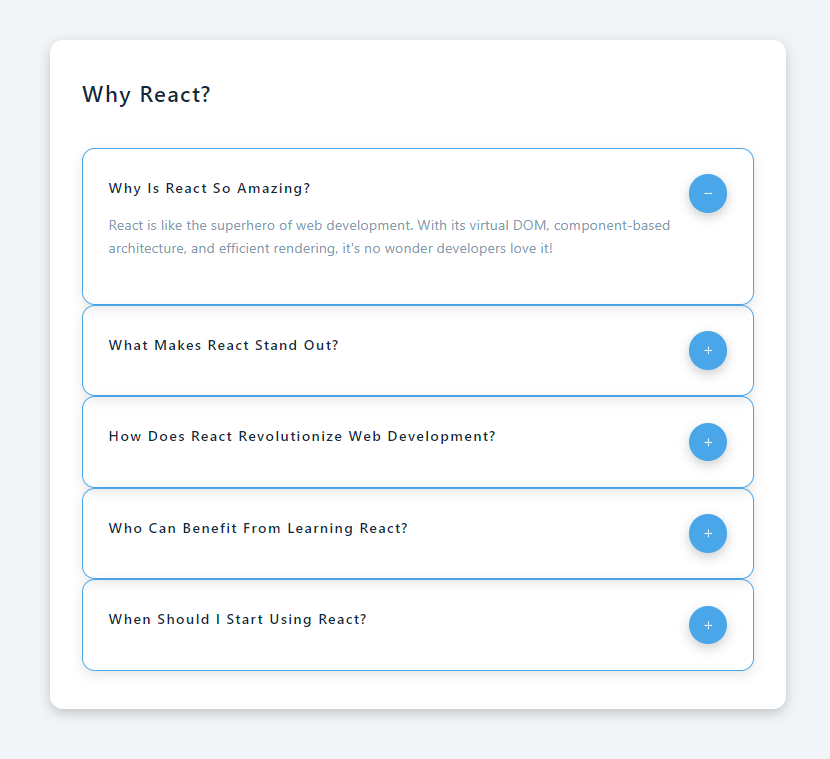
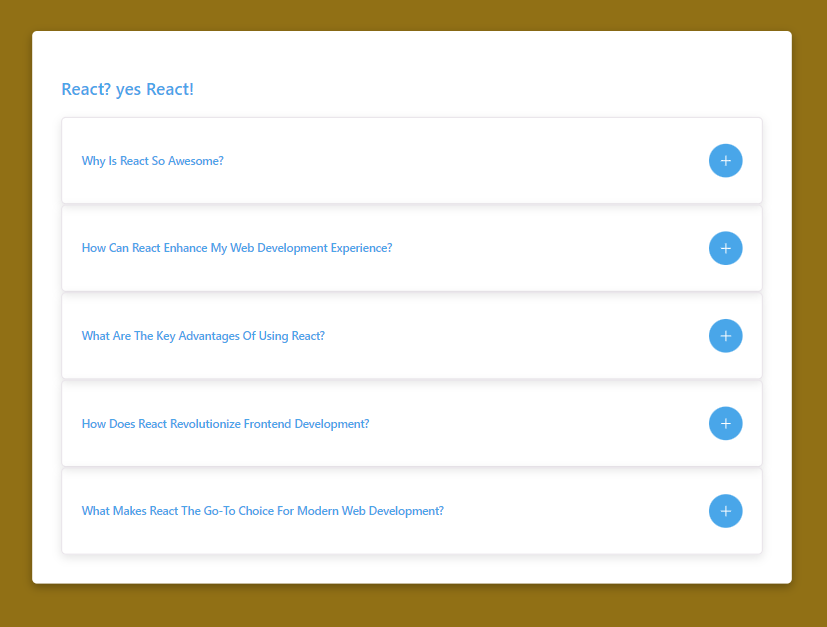
task 6

diff --git a/src/data/tasksData.js b/src/data/tasksData.js
@@ -377,6 +377,79 @@ const tasksData = {
       img: require("../images/ReactLesson5.png"),
       link: "https://www.dropbox.com/scl/fi/x993b93wtivxvs24vu2gh/quizApp.css?rlkey=ugoc9v64xrxs7a82giuyj0d21&st=5nhhq4ti&dl=0",
     },
+    {
+      taskId: "reacttask6",
+      taskTitle: "ReactFAQ",
+      introduction:
+        "ReactFAQ is a user-friendly React application designed to provide quick access to frequently asked questions and their detailed answers. With collapsible sections and intuitive navigation, users can easily find the information they need within a sleek and modern interface.",
+
+      steps: [
+        {
+          stepTitle: "Step 1: Create React App",
+          titleDescription: "",
+          description: [
+            "Open your terminal.",
+            "Navigate to the directory where you want to create your project.",
+            "Run npx create-react-app my-react-app (replace my-react-app with your preferred project name).",
+            "Navigate into your project directory: cd my-react-app.",
+          ],
+        },
+        {
+          stepTitle: "Step 2: Component Structure",
+          titleDescription: "",
+          description: [
+            "Inside the src folder of your React project, create a new folder named components.",
+            "Inside the components folder, create two files: Question.js and index.css.",
+          ],
+        },
+        {
+          stepTitle: "Step 3: Question Component",
+          titleDescription: "In question.js",
+          description: [
+            "Install ( npm i react-icons ) and import the AiOutlineMinus and AiOutlinePlus icons from the 'react-icons/ai' library",
+            "Define the Question component as a functional component that takes 'title' and 'info' props",
+            "Initialize state variable 'showInfo' using the useState hook, default value is false",
+            "Render the component structure",
+            "Define outer container for the question article",
+            "Then, create a header section containing the question title",
+            "Add the button to toggle visibility of additional information",
+            "Apply conditional rendering of 'minus' icon if showInfo is true, otherwise 'plus' icon",
+            "Render additional information paragraph if showInfo is true",
+          ],
+        },
+        {
+          stepTitle: "Step 4: Main App Component",
+          titleDescription: "In your App.js file",
+          description: [
+            "Import necessary modules from React library.",
+            "Import data from an external file named 'data'.",
+            "Import the Question component from a file named 'Question'.",
+            "Import styles from an external CSS file named 'index.css'.",
+            "Declare a functional component named App.",
+            "Declaring a state variable 'questions' using useState hook, initialise it with data imported from 'data' file. ",
+            "In return statement create a main container of the application",
+            "Then, container div with a class name of 'container', 'heading' sectiopn element with a class name of 'info",
+            "Map through the 'questions' array and render the Question component for each question",
+          ],
+        },
+        {
+          stepTitle: "Step 5: Data File",
+          titleDescription: "",
+          description: [
+            "Create a new file named data.js in the src directory.",
+            "Define an array of objects representing questions, each with properties like id, title, and info.",
+            "Populate the data file with question objects containing various titles and information.",
+          ],
+        },
+      ],
+      taskType: "React",
+      difficulty: "Easy",
+      authorIndex: 0,
+      prerequisites: ["React Basics"],
+      completed: false,
+      img: require("../images/ReactLesson6.png"),
+      link: "https://www.dropbox.com/scl/fi/6cblzwczzki50yxwaxszo/style.css?rlkey=bydjjmcbwquipvhhlw470mbkb&dl=0",
+    },
   ],
 };
 
